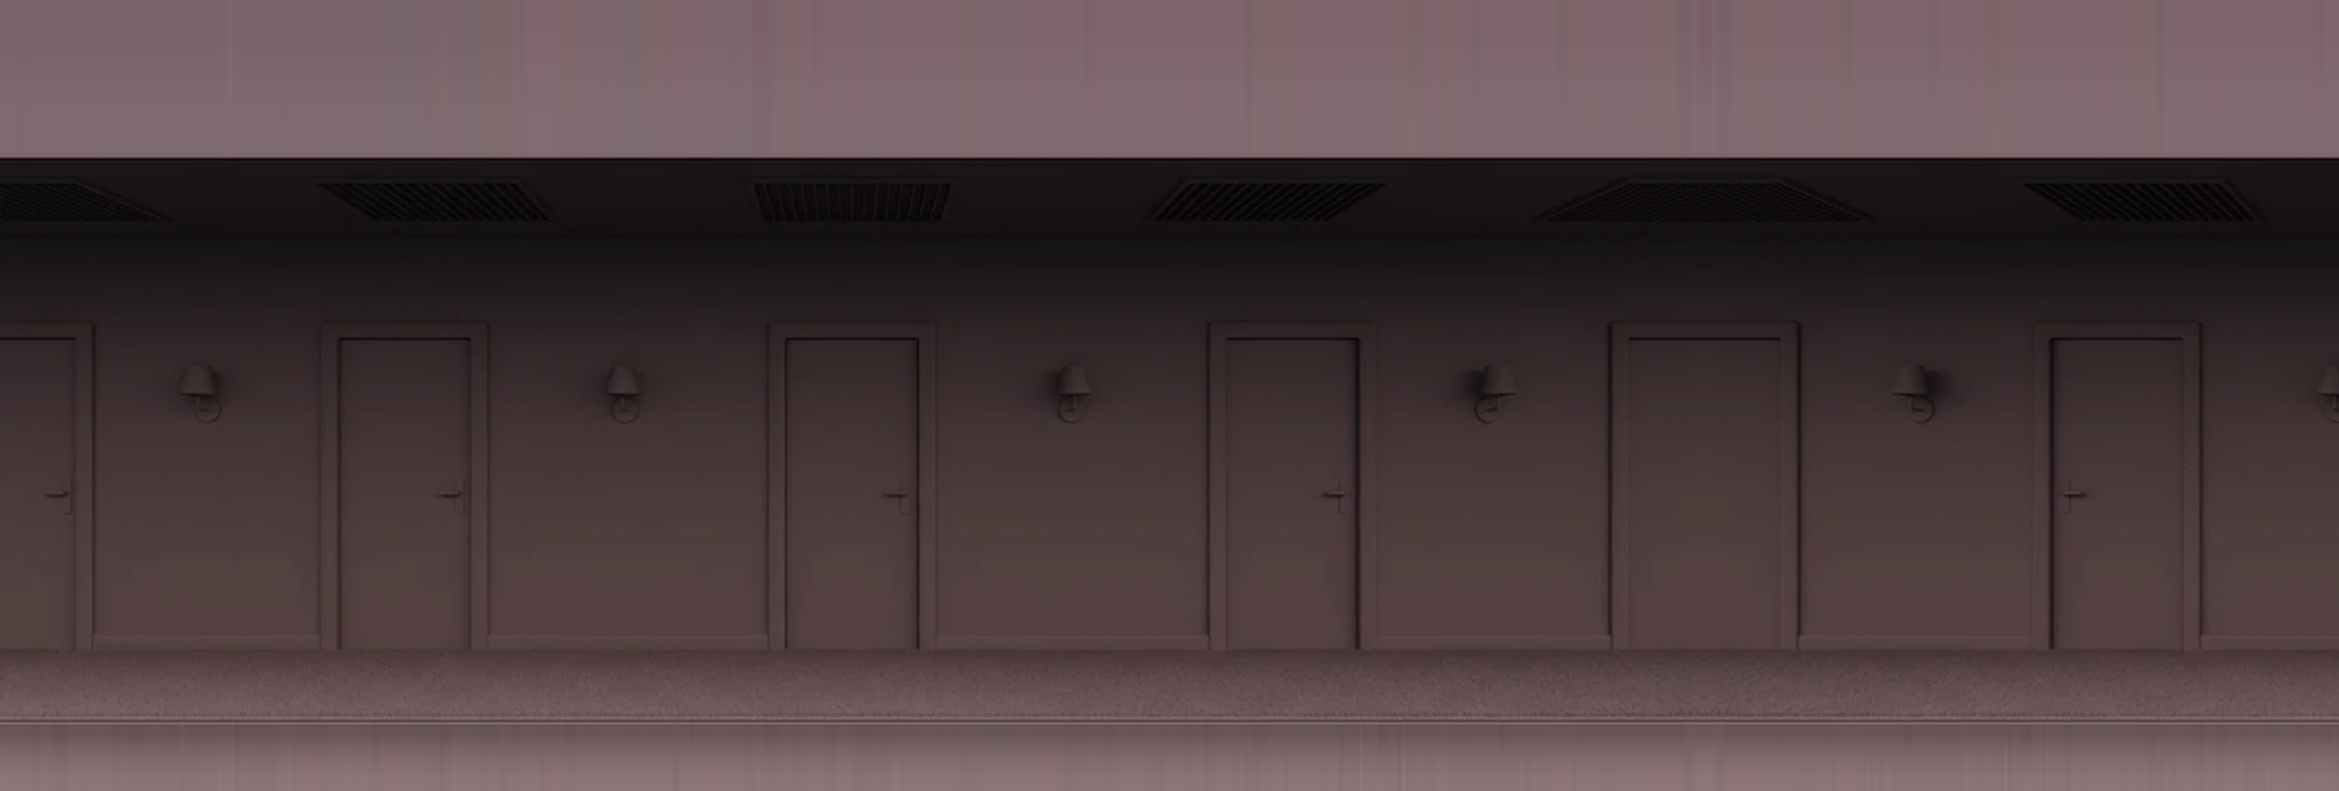
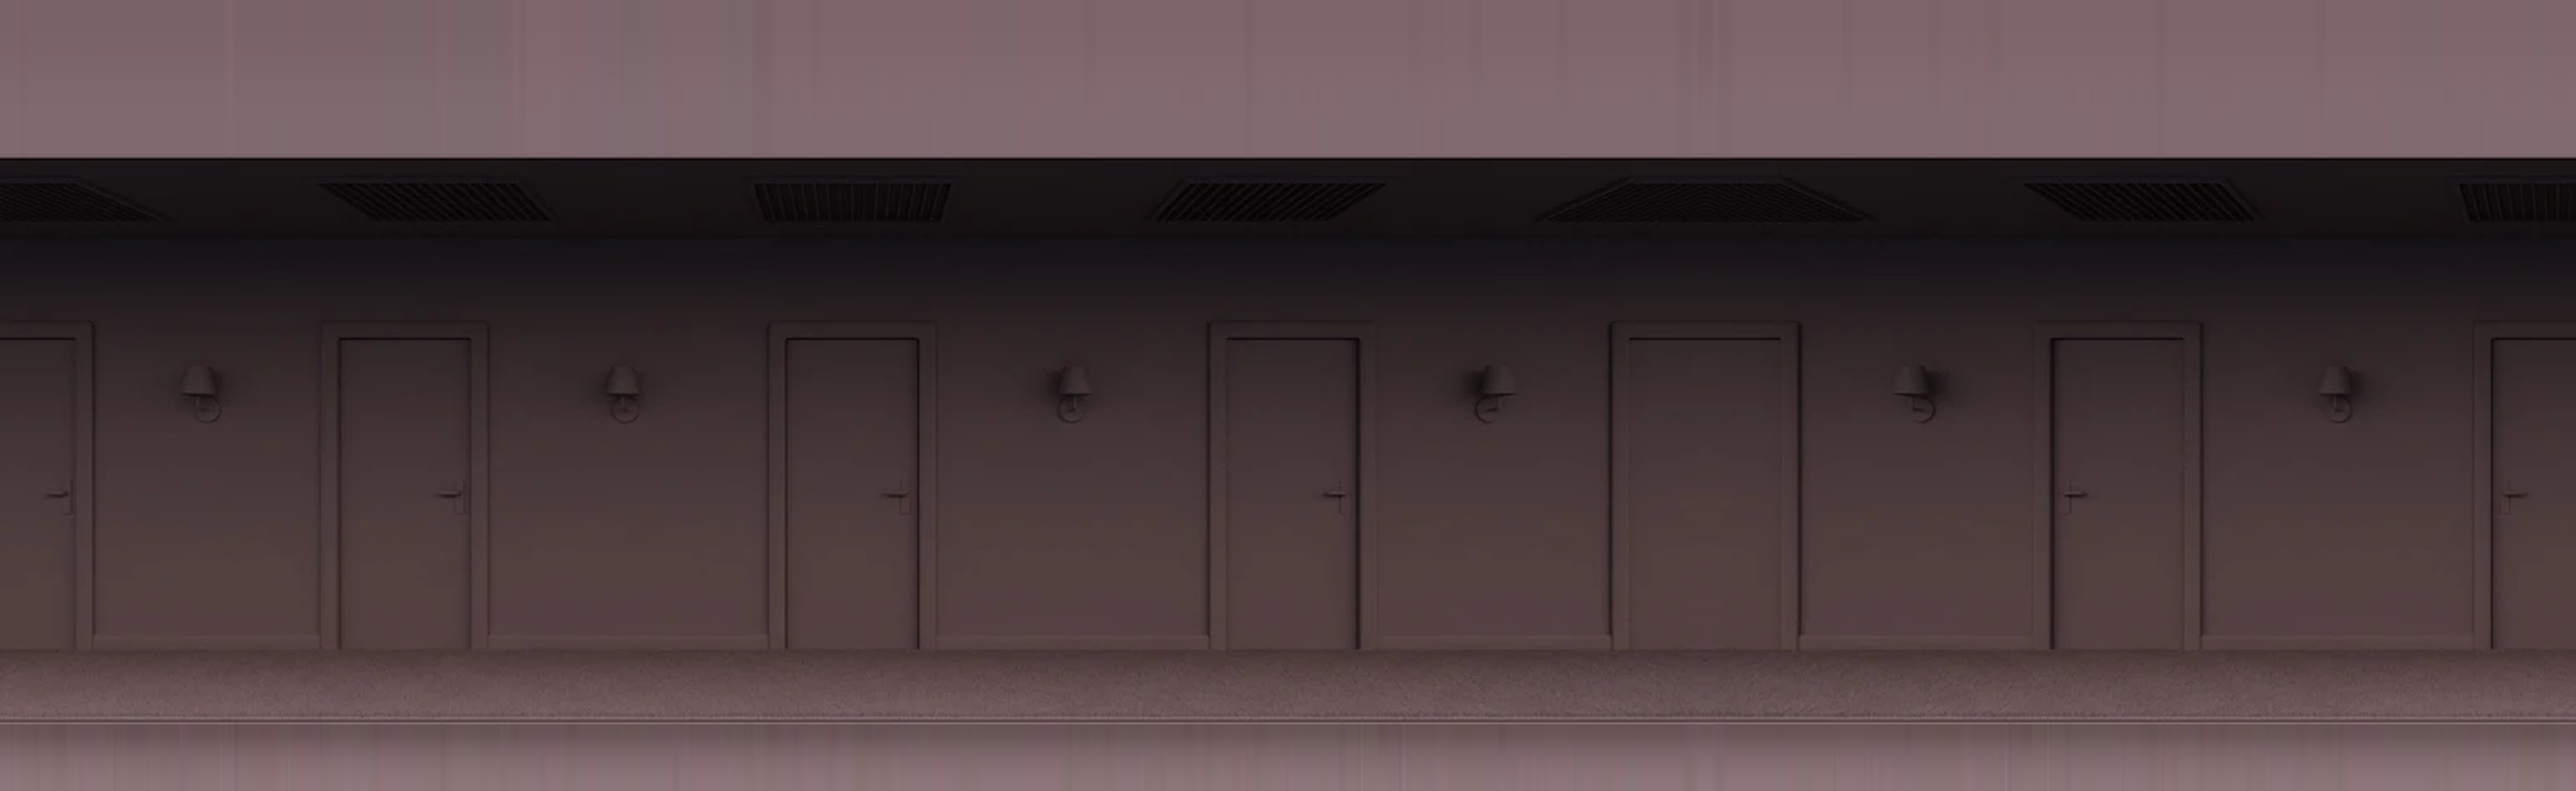
Redo the side-map controls in the MapleStory arrangement, and pull the camera back
The d-pad experiment is over. Four direction buttons covered half the screen
and still handled worse than the analog stick the 3D screens already taught
players. The left hand gets the stick back — sideways walks, a firm push up
or down takes ladders and elevators, with a taller vertical dead zone so a
drifting thumb doesn't grab a ladder mid-walk.

The right hand follows the mobile MapleStory layout, with one substitution:
the big button in the corner is not attack, it is SELECT. Entering a door,
talking, picking things up — this game's primary verb. It glows when there is
something to act on, so the moment "▲ 문으로" appears there is also a bright
thing under the thumb to press. Jump rides beside it as a satellite, and
settings sits in the top-right corner like Maple's menu — the side maps had
no way to reach settings at all.

The camera pulls back to 0.88. The character took a fifth of the screen and
the room read as a backdrop to the character rather than a place. Zooming out
means the view outgrows the backdrop paintings, so the importer's width
margin grows to match and all four are re-cut; the vertical camera clamp
tightens so the view never leaves the painted band. Those three numbers move
together or the edges go black.

diff --git a/tools/side/import-indoor-bg.py b/tools/side/import-indoor-bg.py
@@ -38,7 +38,9 @@ MAPS = {
     "office": 4200,
     "hallway": 3400,
 }
-SCREEN_W = 2600
+# 카메라가 0.88 줌으로 뒤에 물러나 있어 화면이 실제로 보는 폭은
+# 2400/0.88 ≈ 2730 이다. 모자라면 맵 끝에서 검은 띠가 생긴다.
+SCREEN_W = 3000
 
 ## 배경이 카메라를 따라 흐르는 정도. 맵마다 다르다.
 ##
